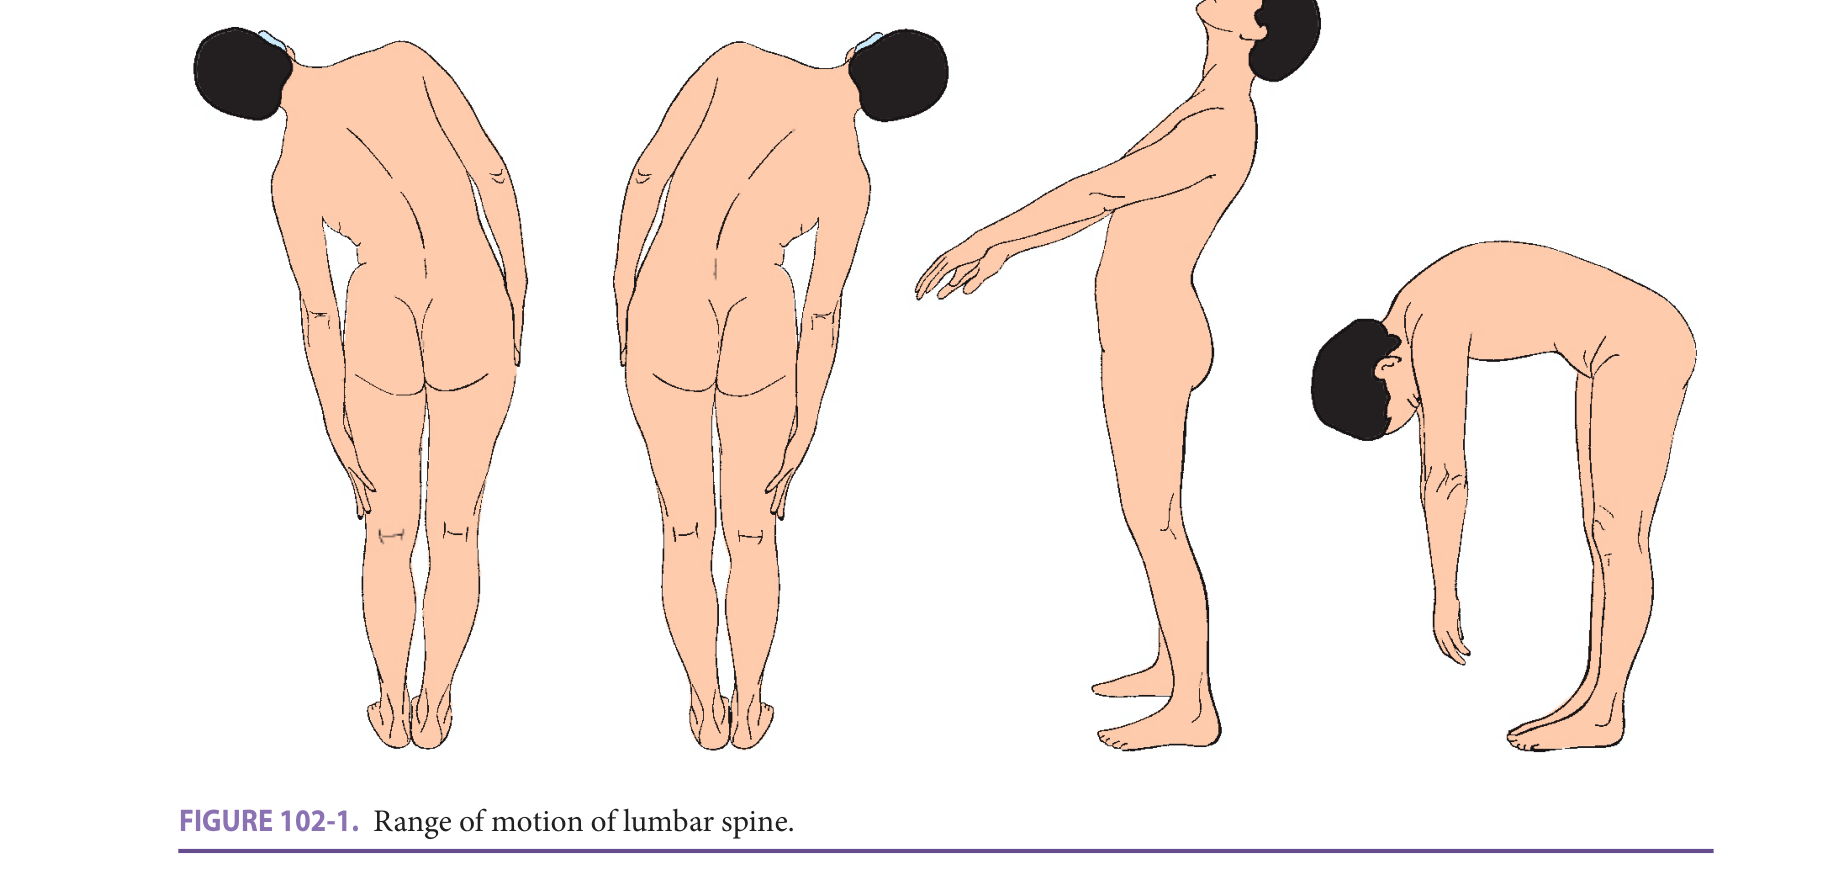
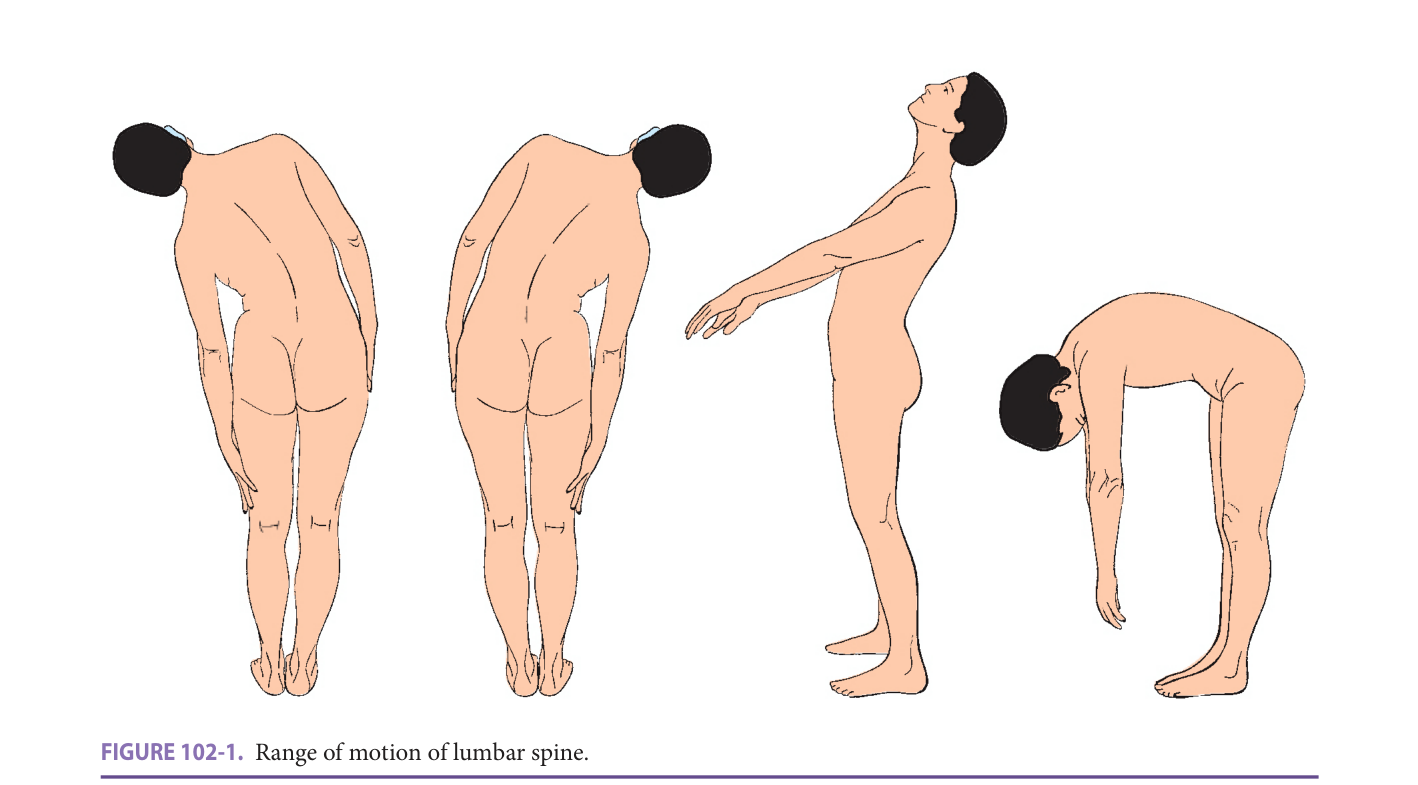
Third pass: fix truncated/sideways/faded crops across non-core chapters (cache v23)
Figure 87-6 was only its bottom third; Table 105-12 lost its TB footnotes (re-cropped
and transcribed); Figures 102-1, 104-1 top-clipped; Table 59-7 p914 was sideways.
16 washed-out table crops contrast-stretched; 4 loose crops tightened; Table 87-10
converted to a per-drug list so it reads on a phone.

Claude-Session: https://claude.ai/code/session_01SR163Ndu51VcNDujM5n4Wy

Changed region(s): [[0.0621, 0.0, 0.7447, 0.8866], [0.6827, 0.2752, 0.9309, 0.8866], [0.0621, 0.9172, 0.9309, 1.0]]

diff --git a/sw.js b/sw.js
@@ -1,4 +1,4 @@
-const CACHE_VERSION = 'v22';
+const CACHE_VERSION = 'v23';
 const SHELL_CACHE = 'hazzard-shell-' + CACHE_VERSION;
 const RUNTIME_CACHE = 'hazzard-runtime-' + CACHE_VERSION;
 const SHELL_URL = './index.html';

diff --git a/CLAUDE.md b/CLAUDE.md
@@ -8,6 +8,7 @@ Eias's phone study site for Hazzard's Geriatric Medicine, 8e. The book is canoni
 - **25 Sep lane review (26 parallel agents, one per chapter, brief in `tools/LANE_REVIEW_BRIEF.md`):** each chapter .md diffed both ways against the book's text layer with `tools/lane_diff.py` (MISSING / EXTRA / short SUBSTITUTIONS), disputes settled on the page image; every study bullet and drill answer re-read against the book. Source pages: per-chapter extracts in `C:\Users\eiasa\Downloads\hazzard_review\`. Found what the 23 Sep passes missed: truncated Key Clinical Points (42, 44, 59, 63, 81, 87, 105), ~20 tables still flattened to "(table text runs longer…)" run-on text — rebuilt from the page image (43-2, 44-6..9, 55-1/2/3, 57-1, 59-1/2/3/6, 87-2/3/5/7/8/10/11, 101-1/4/5/11 and others), dropped prose (42 p618/p628, 44 stimulus control, 59 p909, 63 p989, 101 p1625, 102 p1634 VCF/sacral-fracture clues), column scrambles (81, 101, 105 p1693), invented figure summaries removed (65), figures/tables mid-sentence moved (most chapters). Study-page errors fixed include ch42 MELD Q13 reversed, ch105 TST "or"→"and", ch108 Rochester RSV key wrong, ch83 CKD prevalence mislabeled as kidney failure, ch52/65/77/87 overstatements, many wrong page cites. Zero real word/number substitutions found in prose — the fast build's defects were structural, not paraphrase. Book typos kept as printed.
 - `lane_diff.py` gotcha (fixed): tag-strip must be `</?[A-Za-z][^>\n]*>` — a bare `<` in prose ("< 30") used to swallow text to the next `>`. `verify_study_pages.py` now resolves the chapters dir relative to itself off-Windows (env `HAZZARD_CHAPTERS` overrides).
 - **25 Sep, second pass (high-yield priority):** study pages of the 6 originally lane-cleared chapters (46, 47, 58, 60, 61, 99) had never been read against the book — reviewed (brief `tools/STUDY_REVIEW_BRIEF.md`): 88 bullet/drill fixes (e.g. ch46 silver/collagenase inhibition reversed, ch47 functional UI "GU tract normal" contradicted book, ch58 haloperidol "max 2.5 mg" invented, ch61 levodopa >70 overstated). All 40 core-nine crops viewed directly: Figure 43-3 had lost panels A/B into the 43-4 image — re-cropped both; 43-1, 44-1, 44-3 tightened; 44-4 and 44-8 top-clipped axes restored. Tables with drug/dose stacked by `<br>` lost row alignment on phone — Table 44-2 (md) and ch60's paroxetine/venlafaxine/bupropion rows (index.html template) split one drug per row. **Note: chapters 47, 58, 60, 61, 99 render from `<template>` blocks in index.html, not their .md — edit both.**
+- **25 Sep, third pass:** all 199 non-core crops viewed directly (17 contact sheets). Content defects fixed: Figure 87-6 (constipation treatment algorithm) showed only its bottom third — re-cropped whole; Table 105-12 lost its 6 TB-regimen footnotes — full page re-cropped + footnotes transcribed as text; Figures 102-1 and 104-1 top-clipped — re-cropped; Table 59-7 p914 continuation was sideways — rotated upright and trimmed. 16 washed-out ghost-composited table crops (57-2, 57-3, 59-7, 77-9, 81-10, 87-9) contrast-stretched (levels 0.45–0.97, gamma 1.8). Loose crops tightened: 68-6, 81-2, 57-3 p863, 75-6. Table 87-10 (7 columns) converted to one nested list per drug.
 - Leftover verifier misses (~50 across chapters) are all image-only numbers or spelled-out numbers, each checked by eye by the reviewing agent.
 - A study page (summary + 15-question drill) for each of the 32 chapters, plus a Hebrew Israel-law block (`?chapter=law` / `?chapter=laws`) — primary-source Israeli law and Brookdale 65+ data (2025 edition), not from Hazzard. Law block eyebrow reads "PRIMARY LAW", not HAZZARD.
 - (Was cache v20 on 23 Sep.) **The table-omission/dropped-prose/ghost-image build is CLOSED as of 23 Sep part 4 — no further scheduled sweeps.** Future defects found while studying should be fixed one at a time as encountered, not via another full-chapter sweep.
@@ -71,9 +72,10 @@ Verified printed page ranges: 42 = 615–632, 43 = 633–642, 44 = 643–664, 55
 - Law page: the English note's full stop wraps to the start of its line — a bidi rendering artifact from English text inside an RTL block.
 - **25 Sep, found by Eias's own spot-check of 3 of the 21 part-4 contact sheets (36/241 crops, sheets 5/12/19)** — 2 more instances of the same class, not fixed, both content-complete: ch102 Table 102-7 (re-cropped tight 25 Sep); ch77 Figure 77-4D (p1198) has enough empty margin that the tracing renders small relative to its sibling panels 77-4A/B/C/E/F, needs a phone-zoom to read comfortably. Extrapolated rate from the sample (2/36): roughly a dozen more untight-but-complete crops likely exist across the other 205 unchecked crops — not audited further, build stays closed per Eias's call.
 - ch75 Table 75-6 (p1155): the purple title bar has a ghost-compositing artifact baked into the source scan's own pixels (not a build-tool bug) — no clean alternate source exists in the PDF to re-crop from. Table body/footnote fully legible; left as-is.
-- ch59: Table 59-7 p912 crop includes the top of p913 and looks faded; p914 crop has a strip of the previous page on its top edge. Content complete.
+- ch59: Table 59-7 p912 crop includes the top of p913. Content complete.
 - ch81: Table 81-10 p1252 crop cuts off footnote d (text copy added under it).
 - ch87: Table 87-9 crop clips its source line slightly.
+- Minor page-tab/page-number slivers remain on some crops (75-4, 76-2, 83-1 p1282, 83-3, 101-4 p1614, 105-1) — content-complete, left.
 - ch98: Table 98-8 crop has a sliver of body text at the bottom.
 
 ## Site behavior (not a bug, don't chase it)

diff --git a/chapters/hazzard8e_ch105_pneumonia_tb.md b/chapters/hazzard8e_ch105_pneumonia_tb.md
@@ -442,6 +442,15 @@ Treatment is usually based on the administration of isoniazid for 9 months, unle
 
 > *Table 105-12 reproduced as a page image (printed p. 1695) — the grid did not extract reliably as text for this fast build.*
 
+**Table 105-12 footnotes** (transcribed from the printed page — small print in the image):
+
+- (1) Patients with noncavitated pulmonary tuberculosis, caused by a susceptible strain, if they do not have HIV infection, can receive treatment in both phases for 3 days a week under direct observation. In this case, isoniazid is used at a dose of 15 mg/kg (usually 900 mg); rifampin 10 mg/kg (usually 600 mg); pyrazinamide 1500 mg for patients 40–55 kg, 2500 for patients 56–75 kg, and 3000 for patients with 76–90 kg; and ethambutol 1200 mg for patients 40–55 kg, 2000 mg for patients 56–75 kg, and 2400 mg for patients 76–90 kg.
+- (2) Patients with a positive sputum culture at month 2 (10% of cases) and cavitated lesions on the initial chest x-ray have a high risk of recurrence. In these cases, it is advisable to prolong the treatment with isoniazid and rifampin for up to 9 months. In the presence of only one criterion (cavitation or positive sputum at month 2), it is advisable to prolong treatment in patients with diabetes, HIV infection, immunosuppression, extensive lung disease, silicosis, or smokers.
+- (3) If isoniazid and pyrazinamide cannot be used (severe liver disease or infection by a resistant strain): treatment can be carried out with rifampin, ethambutol, and levofloxacin 500 mg/day or moxifloxacin 400 mg/day or cycloserine 10–15 mg/kg/day in one or two doses for 12–18 months.
+- (4) If isoniazid, rifampicin, or pyrazinamide cannot be used (severe liver disease or infection by a resistant strain): treatment should be done with the combination of at least four active drugs according to the antibiogram, administered for at least 18–24 months. The combination of a fluoroquinolone (levofloxacin 750 mg/day or moxifloxacin 400 mg/ day), an aminoglycoside (amikacin 1 g/day), a polypeptide (capreomycin 15 mg/kg/day), ethambutol, and at least one other active drug (linezolid [300–600 mg/day], ethionamide [15 mg/kg/day—maximum dose 1 g/day], or prothionamide and cycloserine [15 mg/kg/day—maximum dose 1 g/day] can be used.
+- (5) Pulmonary tuberculosis in HIV-infected patients: if the patient is receiving antiretroviral treatment (ART), they can be treated for 6 months with the same recommended regimen for non-HIV-infected patients. In exceptional cases, in which the patient does not receive ART during the entire tuberculostatic treatment, the second phase of treatment should be extended to 9 months. If the patient was not receiving ART, it should be started within the first 2 weeks of tuberculosis treatment, if the CD4 count is < 50 cells/μL and there is no CNS involvement, and between 8 and 12 weeks of treatment if CD4 is ≥ 50 cells/μL or < 50 cells/μL and the CNS is involved. The initiation of ART during antituberculous treatment can cause a temporary paradoxical worsening (10–30 days) with fever and increased infiltrate and/or adenopathies. In patients with AIDS-associated enteropathy, absorption of tuberculostatics may be irregular. If the patient receives protease inhibitors, substitute rifampicin for rifabutin 150–300 mg/day.
+- (6) Treatment failure is defined as the persistence of a positive sputum culture after 4–5 months of treatment. Perform an antibiogram from the last isolation. If it is possible, determine the serum concentration of the tuberculostatics used. Until this information is available, add 2–3 new drugs, administered under direct observation.
+
 > Highlighting is the owner's annotation, not the book's.
 
 (1)  Patients with noncavitated pulmonary tuberculosis, caused by a susceptible strain, if they do not have HIV infection, can receive treatment in both phases for 3 days a week under direct observation. In this case, isoniazid is used at a dose of 15 mg/kg (usually 900 mg); rifampin 10 mg/kg (usually 600 mg); pyrazinamide 1500 mg for patients 40–55 kg, 2500 for patients 56–75 kg, and 3000 for patients with 76–90 kg; and ethambutol 1200 mg for patients 40–55 kg, 2000 mg for patients 56–75 kg, and 2400 mg for patients 76–90 kg.

diff --git a/chapters/hazzard8e_ch87_constipation.md b/chapters/hazzard8e_ch87_constipation.md
@@ -761,13 +761,33 @@ _Senna_ is a cheap and safe agent for use in older patients. A trial of cascara 
 
 **Table 87-10 — Newer medications for treatment of constipation**
 
-| Generic name (trade name) | Mechanism of action | Metabolism, bioavailabilty | Pharmacodynamic effects | Clinical trails | Common side effects | Cardiovascular safety<sup>a</sup> |
-|---|---|---|---|---|---|---|
-| ***Secretagogues*** | | | | | | |
-| Lubioprostone (Amitiza)<sup>b</sup> | Stimulate instestinal chloride and fluid secretion by activating chloride channels | Intestinal degradation, minimal oral bioavailability | Accelerated small bowel and colonic transit in health | Phases 2 and 3 in CC, IBS-C | Diarrhea, nausea | No arrhythmic effects |
-| Linaclotide (Linzess)<sup>b</sup> | Stimulate instestinal chloride and fluid secretion by activating CFTR | Intestinal degradation, minimal oral bioavailability | Dose-related acceleration of colonic transit in IBS-C | Phases 2 and 3 in CC, IBS-C | Diarrhea | No arrhythmic effects |
-| ***Serotonin 5-HT4 receptor agonists*** | | | | | | |
-| Prucalopride<sup>c</sup> (Resolor) | High selectivity and affinity for 5-HT4 receptors; much weaker affinity for human D4 and s1 and mouse 5-HT3 receptors | Limited hepatic, not CYP3A4 | Accelerated colonic transit in health and CC | Phases 2 and 3 in CC | Diarrhea, headache | No arrhythmic activity in atrial cells; inhibits hERG at very high μmol/L concentration; no clinically relevant adverse cardiac effects in large trials (> 4000 subjects) |
+***Secretagogues***
+
+- **Lubioprostone (Amitiza)<sup>b</sup>**
+  - *Mechanism of action:* Stimulate instestinal chloride and fluid secretion by activating chloride channels
+  - *Metabolism, bioavailabilty:* Intestinal degradation, minimal oral bioavailability
+  - *Pharmacodynamic effects:* Accelerated small bowel and colonic transit in health
+  - *Clinical trails:* Phases 2 and 3 in CC, IBS-C
+  - *Common side effects:* Diarrhea, nausea
+  - *Cardiovascular safety<sup>a</sup>:* No arrhythmic effects
+- **Linaclotide (Linzess)<sup>b</sup>**
+  - *Mechanism of action:* Stimulate instestinal chloride and fluid secretion by activating CFTR
+  - *Metabolism, bioavailabilty:* Intestinal degradation, minimal oral bioavailability
+  - *Pharmacodynamic effects:* Dose-related acceleration of colonic transit in IBS-C
+  - *Clinical trails:* Phases 2 and 3 in CC, IBS-C
+  - *Common side effects:* Diarrhea
+  - *Cardiovascular safety<sup>a</sup>:* No arrhythmic effects
+
+***Serotonin 5-HT4 receptor agonists***
+
+- **Prucalopride<sup>c</sup> (Resolor)**
+  - *Mechanism of action:* High selectivity and affinity for 5-HT4 receptors; much weaker affinity for human D4 and s1 and mouse 5-HT3 receptors
+  - *Metabolism, bioavailabilty:* Limited hepatic, not CYP3A4
+  - *Pharmacodynamic effects:* Accelerated colonic transit in health and CC
+  - *Clinical trails:* Phases 2 and 3 in CC
+  - *Common side effects:* Diarrhea, headache
+  - *Cardiovascular safety<sup>a</sup>:* No arrhythmic activity in atrial cells; inhibits hERG at very high μmol/L concentration; no clinically relevant adverse cardiac effects in large trials (> 4000 subjects)
+
 
 Note: Only agents that have been tested in phase 3 clinical trials are included. CC, chronic constipation.
 <sup>a</sup>In addition to the listed effects, none of the agents shown in this table affect QTc in healthy subjects.
